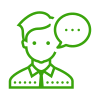
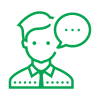
color changed

diff --git a/css/style.css b/css/style.css
@@ -28,7 +28,7 @@ h1,h2,h3,h4,h5,h6,a,p,span,ul,ol,strong{
 #sub-nav{
   padding-top: 15px;
   padding-bottom: 10px;
-  background: #3aa40c;
+  background: #06a551;
 }
 .sub-nav-container{
   display: flex;
@@ -91,7 +91,7 @@ h1,h2,h3,h4,h5,h6,a,p,span,ul,ol,strong{
   color: #282828;
 }
 .navbar-light .navbar-nav .nav-link:hover {
-  color: #3aa40c;
+  color: #06a551;
 }
 .menu-bg{
   background: #ffffff;
@@ -156,7 +156,7 @@ h1,h2,h3,h4,h5,h6,a,p,span,ul,ol,strong{
   padding-top: 80px;
 }
 .about-content h2{
-  color: #3aa40c;
+  color: #06a551;
   font-size: 35px;
   font-weight: 800;
   text-transform: uppercase;
@@ -197,7 +197,7 @@ h1,h2,h3,h4,h5,h6,a,p,span,ul,ol,strong{
 }
 .title h2{
   text-align: center;
-  color: #3aa40c;
+  color: #06a551;
   font-size: 35px;
   text-transform: uppercase;
   font-weight: 800;
@@ -256,7 +256,7 @@ h1,h2,h3,h4,h5,h6,a,p,span,ul,ol,strong{
   transition: all linear .4s;
 }
 .social-link i:hover{
-  background: #3aa40c;
+  background: #06a551;
 }
 /* =======================================================================================================
                                              Footer Part Css
@@ -276,7 +276,7 @@ h1,h2,h3,h4,h5,h6,a,p,span,ul,ol,strong{
   transition: all linear .4s;
 }
 .footer-content a:hover{
-  color: #3aa40c;
+  color: #06a551;
 }
 
 /* ===============================================================================================
@@ -296,7 +296,7 @@ h1,h2,h3,h4,h5,h6,a,p,span,ul,ol,strong{
   height: 50px;
   line-height: 50px;
   text-align: center;
-  background: #3aa40c;
+  background: #06a551;
   border-radius: 3px;
 }
 
@@ -313,7 +313,7 @@ h1,h2,h3,h4,h5,h6,a,p,span,ul,ol,strong{
 .donutSpinner {
   display: inline-block;
   border: 4px solid rgba(0, 0, 0, 0.1);
-  border-left-color: #3aa40c;
+  border-left-color: #06a551;
   border-radius: 50%;
   width: 40px;
   height: 40px;
@@ -361,7 +361,7 @@ h1,h2,h3,h4,h5,h6,a,p,span,ul,ol,strong{
   padding-bottom: 50px;
 }
 .it-part h6{
-  color: #3aa40c;
+  color: #06a551;
   font-size: 16px;
   font-weight: 600;
   margin-bottom: 15px;
@@ -466,7 +466,7 @@ h1,h2,h3,h4,h5,h6,a,p,span,ul,ol,strong{
   cursor: pointer;
 }
 .button button:hover{
-  background: #3aa40c;
+  background: #06a551;
   color: #ffffff;
 }
 .project-item{
@@ -499,13 +499,13 @@ h1,h2,h3,h4,h5,h6,a,p,span,ul,ol,strong{
   transform: rotate(90deg);
 }
 .overlay i:hover{
-  color: #3aa40c;
+  color: #06a551;
 }
 .project-item:hover .overlay{
   opacity: 1;
 }
 .project-item:hover .project-text{
-  background: #3aa40c;
+  background: #06a551;
 }
 .project-item:hover .project-text h3{
   color: #ffffff;
@@ -514,7 +514,7 @@ h1,h2,h3,h4,h5,h6,a,p,span,ul,ol,strong{
   color: #ffffff;
 }
 .project-item:hover .project-text::after{
-  background: #3aa40c;
+  background: #06a551;
 }
 .project-text{
   background: #fbfaf8;
@@ -534,7 +534,7 @@ h1,h2,h3,h4,h5,h6,a,p,span,ul,ol,strong{
   transition: all linear .3s;
 }
 .project-text h3{
-  color: #3aa40c;
+  color: #06a551;
   font-size: 24px;
   font-weight: 600;
   text-transform: capitalize;
@@ -551,7 +551,7 @@ button:focus {
   outline: 0;
 }
 .button button.mixitup-control-active{
-  background: #3aa40c;
+  background: #06a551;
   color: #ffffff;
 }
 /* =========================================================================================================
@@ -608,7 +608,7 @@ button:focus {
 }
 .contact-form h6{
   font-size: 16px;
-  color: #3aa40c;
+  color: #06a551;
   font-weight: 600;
   text-align: center;
   margin-bottom: 15px;
@@ -635,15 +635,15 @@ button:focus {
 }
 .contact-form .form-control:focus{
   box-shadow: none;
-  border-color: #3aa40c;
+  border-color: #06a551;
 }
 .submit-btn{
   text-align: center;
   margin-top: 20px;
 }
 .submit-btn .btn{
-  background: rgb(58,164,12);
-  background: linear-gradient(90deg, rgba(58,164,12,1) 0%, rgba(80,207,25,1) 35%, rgba(58,164,12,1) 100%);
+  background: rgb(6,165,81);
+  background: linear-gradient(90deg, rgba(6,165,81,1) 0%, rgba(34,222,123,1) 35%, rgba(6,165,81,1) 100%);
   font-family: 'Poppins', sans-serif;
   border: 0;
   border-radius: 50px;
@@ -653,8 +653,8 @@ button:focus {
   letter-spacing: 1px;
 }
 .submit-btn .btn:hover{
-  background: rgb(80,207,25);
-  background: linear-gradient(90deg, rgba(80,207,25,1) 0%, rgba(58,164,12,1) 35%, rgba(80,207,25,1) 100%);
+  background: rgb(34,222,123);
+  background: linear-gradient(90deg, rgba(34,222,123,1) 0%, rgba(6,165,81,1) 35%, rgba(34,222,123,1) 100%);
 }
 .map{
   margin-top: 40px;
